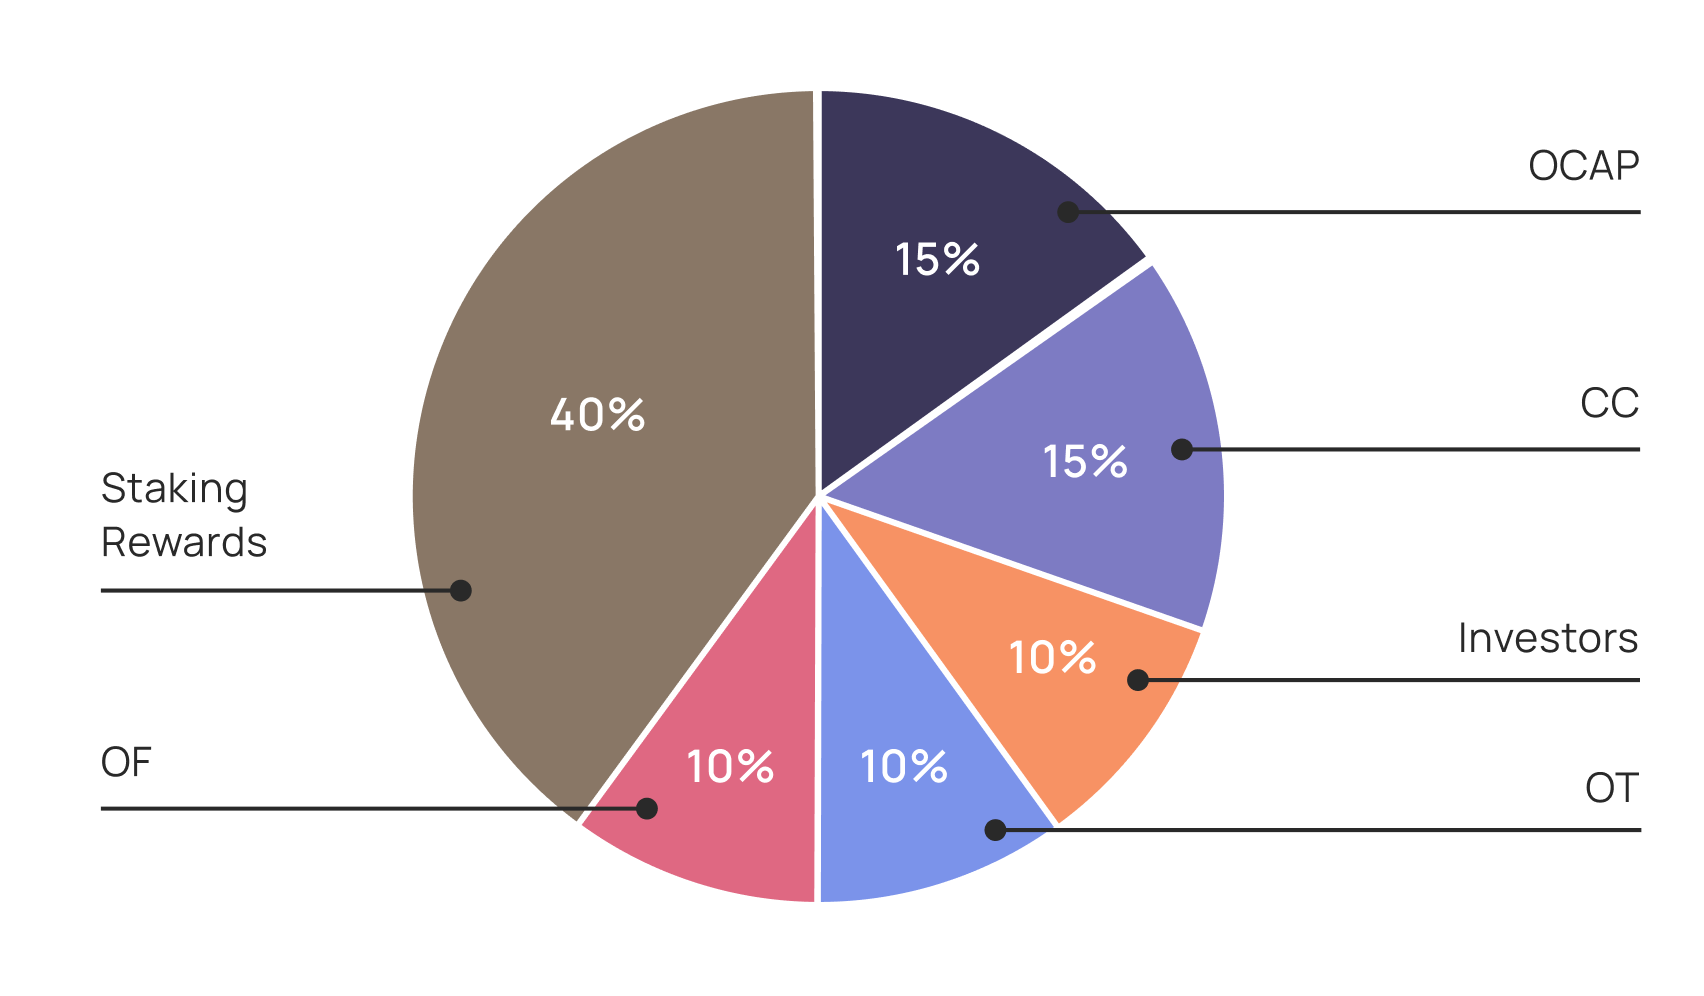
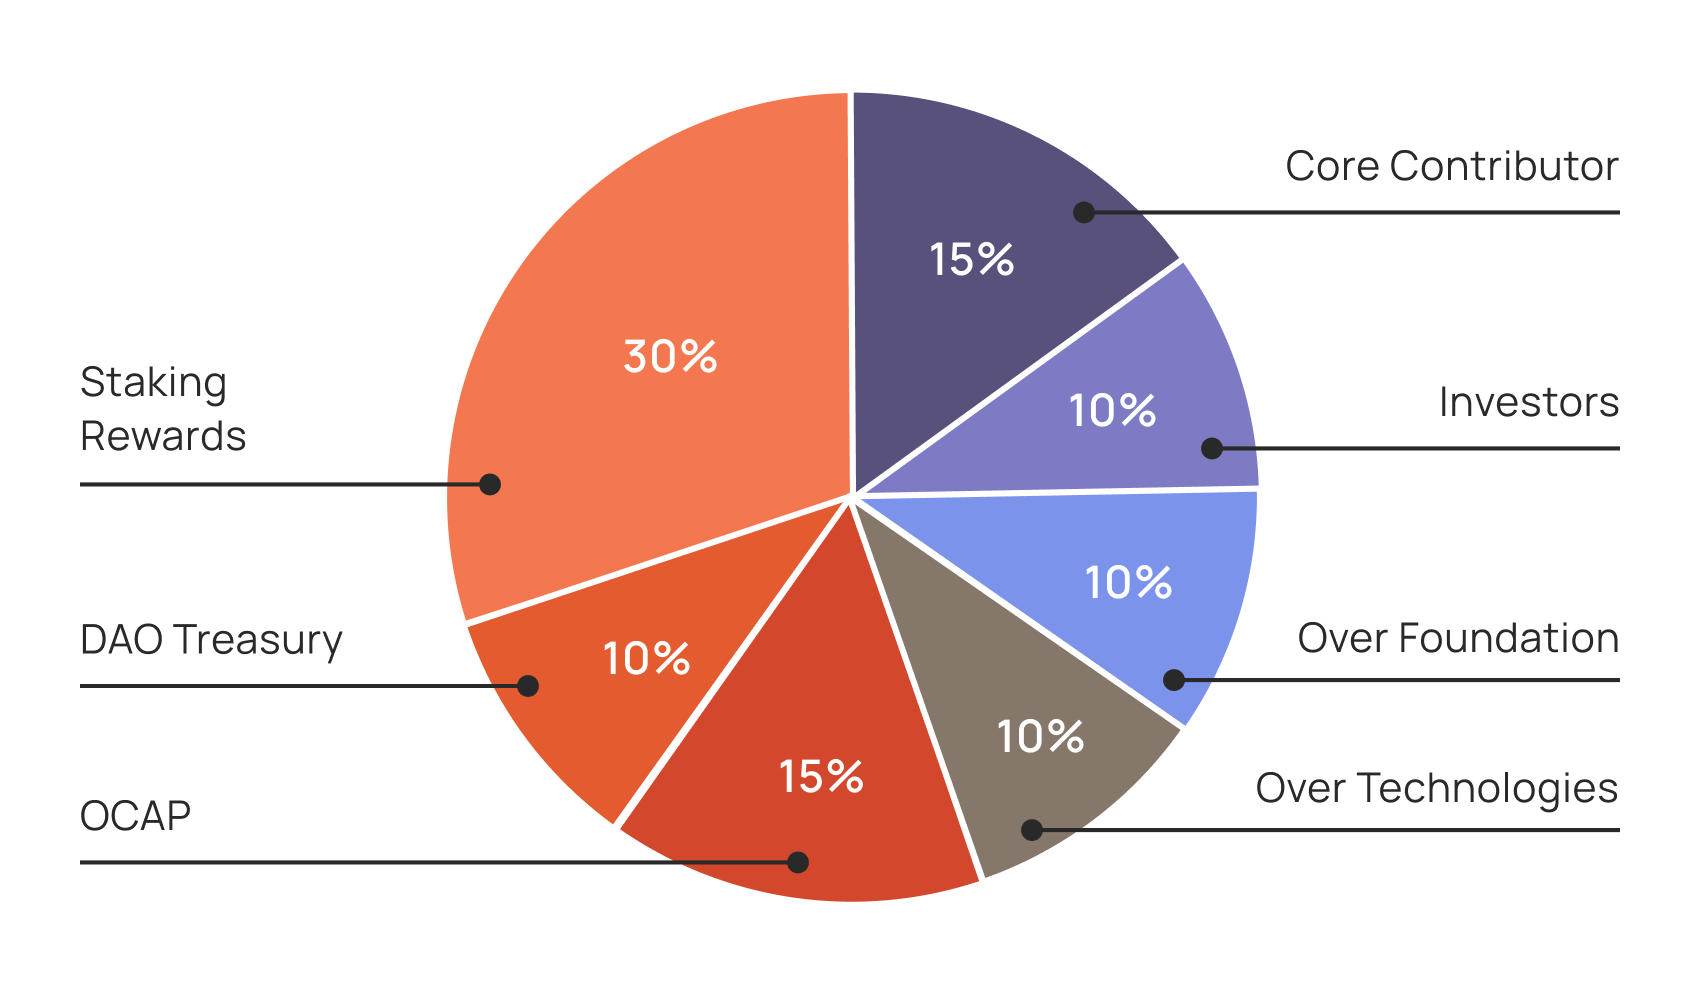
Add dao treasury part

diff --git a/docs/learn/key-features/tokenomics/distribution.md b/docs/learn/key-features/tokenomics/distribution.md
@@ -4,19 +4,27 @@ description: An introduction for distribution information of OVER
 lang: en
 ---
 
-Over has a supply schedule that releases 1 billion OVER over 10 years. Upon entering the 11th year, no additional tokens will be issued.
+:::info
+**Disclaimer**: The tokenomics details, including the distribution and allocation mechanisms, are still under development and may be adjusted before the mainnet launch to better serve the evolving needs of the OverProtocol ecosystem.
+:::
+
+OverProtocol has a supply schedule that releases 1 billion OVER over 10 years. Upon entering the 11th year, no additional tokens will be issued.
 
 ## Token Allocation
 
 ### 1. Staking Rewards
 
-40% of the total tokens, equating to 400 million OVER, will be distributed over 10 years. The issuance plan allocates 200 million OVER  as the minimum guaranteed reward, distributed in equal annual amounts to stakers. The remaining 200 million OVER will be used as an adjustable reward, modulated in real-time by the system without human intervention, based on the desired staking quantity. Further details are described [below](#staking-rewards).
+30% of the total tokens, equating to 300 million OVER, will be distributed over 10 years. The issuance plan allocates 200 million OVER as the minimum guaranteed reward, distributed in equal annual amounts to stakers. The remaining 100 million OVER will be used as an adjustable reward, modulated in real-time by the system without human intervention, based on the desired staking quantity. Further details are described [below](#staking-rewards).
 
-### 2. Over Community Access Program(OCAP)
+### 2. DAO Treasury{#treasury}
+
+The DAO Treasury is a pivotal component in the sustainable growth and development of the OverProtocol ecosystem, with the goal of supporting DeFi, Layer 2 solutions, and other ecosystem initiatives. It will introduce governance mechanisms allowing participation from node validators, Nethers stakers, and potentially other contributors in deciding the allocation of treasury funds. The treasury will be funded by a linear distribution of 10% of the total supply (100 million OVER) over ten years, along with the base fee from transaction fees being allocated to the treasury.
+
+### 3. Over Community Access Program(OCAP)
 
 Of the total supply, 15% is initially allocated to the OCAP. OCAP facilitates the distribution of OVER in various ways, such as airdrops for early community members and contributors, or through liquidity provision. The goal is to make participation in OverProtocol accessible to those who share our vision.
 
-### 3. Others
+### 4. Others
 
 The remaining 450 Million OVER is earmarked for distribution to 4 entities (Core Contributors, Investors, Over Technologies, and Over Foundation) over a 4-year schedule. Refer to Table \ref{table:0} for the yearly allocation amounts. Each percentage point indicates the proportion of allocation distribution relative to the total 1 billion OVER.
 
@@ -30,11 +38,11 @@ OverProtocol's token issuance plan allocates 200 million OVER as the minimum gua
 
 ### Adjustable Rewards
 
-The actual release of staking rewards is adjusted by the protocol's predefined feedback mechanism. This mechanism acts as a reserve system to modulate the issuance levels: it reduces actual issuance when staking rewards are sufficient and increases issuance when additional rewards are needed. These adjustments are made based on the current staking rate, ranging between a minimum guaranteed reward of 20 million OVER per year to a maximum of 40 million OVER per year. Importantly, this reserve system is not managed by external entities but is governed by an internal feedback mechanism within the protocol. Refer to [this page](feedback.md) for a comprehensive overview of the feedback mechanism.
+The actual release of staking rewards is adjusted by the protocol's predefined feedback mechanism. This mechanism acts as a reserve system to modulate the issuance levels: it reduces actual issuance when staking rewards are sufficient and increases issuance when additional rewards are needed. These adjustments are made based on the current staking rate, ranging between a minimum guaranteed reward of 20 million OVER per year to a maximum of 30 million OVER per year. Importantly, this reserve system is not managed by external entities but is governed by an internal feedback mechanism within the protocol. Refer to [this page](feedback.md) for a comprehensive overview of the feedback mechanism.
 
 After the 10-year issuance period is over, any remaining reserve for the adjustable rewards will continue to be distributed to stakers.
 
 | Year        | Minimum Issuance | Maximum Issuance |
 | ----------- | ---------------- | ---------------- |
-| Year 1 ~ 10 | 20M OVER         | 40M OVER         |
-| Year 11 ~   | 0 OVER           | 20M OVER         |
+| Year 1 ~ 10 | 20M OVER         | 30M OVER         |
+| Year 11 ~   | 0 OVER           | 10M OVER         |

diff --git a/docs/learn/key-features/tokenomics/fee.md b/docs/learn/key-features/tokenomics/fee.md
@@ -12,13 +12,7 @@ The **Transaction Fee** is a charge applied to each transaction within the OverP
 
 There are two primary objectives that we aim to achieve through the transaction fee design. Firstly, we seek to align user gas usage with an appropriate gas target, ensuring efficient network operation. Secondly, we aim to induce deflationary pressure through the application of **base fees**, thereby promoting a balanced economic environment within the network. For this purpose, we use the commonly known EIP-1559, and adjust its design which we plan to achieve through several future updates.
 
-In the protocol's initial stages, the base fee is collected and directed to the [Over Treasury](#over-treasury)., supporting various ecosystem development initiatives. As the protocol matures, the collection strategy evolves: instead of accruing in the treasury, the base fee is directly burned from each transaction. This nuanced approach balances the initial growth needs with a longer-term strategy of reducing token supply, thereby sustaining the protocol’s economic health.
-
-#### Over Treasury
-
-The Over Treasury serves as a pivotal component in the sustainable growth and development of the OverProtocol ecosystem. In its initial years, the treasury, under the stewardship of the Over Foundation, will accumulate various fees generated by the blockchain's operations. This strategic collection of assets will be judiciously allocated to fuel a range of initiatives, notably including the funding of promising decentralized application (DApp) projects, and the cost of some restore transactions.
-
-The primary objective of the treasury is to foster an environment of innovation and expansion within the OverProtocol community, ensuring a steady progression towards a robust, diverse, and thriving blockchain ecosystem. As the protocol matures, the governance of this treasury is planned to transition smoothly into a decentralized autonomous organization (DAO) model, reflecting the protocol's commitment to decentralization and community-driven development. This transition signifies a shift towards a more democratic and participatory framework, empowering the community to guide the strategic utilization of resources in alignment with the collective vision and long-term objectives of the OverProtocol.
+In the protocol's initial stages, the base fee is collected and directed to the [DAO Treasury](/learn/key-features/tokenomics/distribution#treasury), supporting various ecosystem development initiatives. As the protocol matures, the collection strategy evolves: instead of accruing in the treasury, the base fee is directly burned from each transaction. This nuanced approach balances the initial growth needs with a longer-term strategy of reducing token supply, thereby sustaining the protocol’s economic health.
 
 ## Future Plans
 
@@ -30,7 +24,7 @@ Storage rent is a proposed economic mechanism designed to address the inefficien
 
 With the storage rent fee, a blockchain storage user would consistenly pay the rent to compensate for the ongoing use of the storage space. This fee incentivizes users to only retain necessary and actively used data, thereby managing the size and efficiency of the blockchain's state. That is, we can expect users to be more judicious about the data they store on the blockchain and to potentially clean up or remove data that is no longer needed.
 
-Such a fee is levied on every Ethanos epoch, and the amount depends on the quantity of data stored with the duration for which it was stored. The storage fee is collected and directed to the [Over Treasury](#over-treasury), supporting various ecosystem development initiatives.
+Such a fee is levied on every Ethanos epoch, and the amount depends on the quantity of data stored with the duration for which it was stored. The storage fee is collected and directed to the [DAO Treasury](/learn/key-features/tokenomics/distribution#treasury), supporting various ecosystem development initiatives.
 
 #### Why it was hard to collect Storage Rent Fees
 

diff --git a/docs/learn/key-features/tokenomics/feedback.md b/docs/learn/key-features/tokenomics/feedback.md
@@ -105,4 +105,4 @@ In a blockchain Proof of Stake (PoS) system, the 'churn limit' refers to the max
 
 ### The Issuance Reserve
 
-The primary function of the issuance reserve is to manage the allocation of additional rewards when needed. Specifically, the reserve is pre-allocated 200 million OVER and serves as a resource for the feedback system to augment rewards when necessary. If the system determines that more rewards should be distributed, the additional amount is provided from this reserve. However, no more than this pre-allocated amount will be issued. The management of the issuance reserve is handled at the protocol level, protecting it from risks such as account hacking and ensuring its use is strictly limited to the dynamic adjustment of yields.
+The primary function of the issuance reserve is to manage the allocation of additional rewards when needed. Specifically, the reserve is pre-allocated 100 million OVER and serves as a resource for the feedback system to augment rewards when necessary. If the system determines that more rewards should be distributed, the additional amount is provided from this reserve. However, no more than this pre-allocated amount will be issued. The management of the issuance reserve is handled at the protocol level, protecting it from risks such as account hacking and ensuring its use is strictly limited to the dynamic adjustment of yields.
